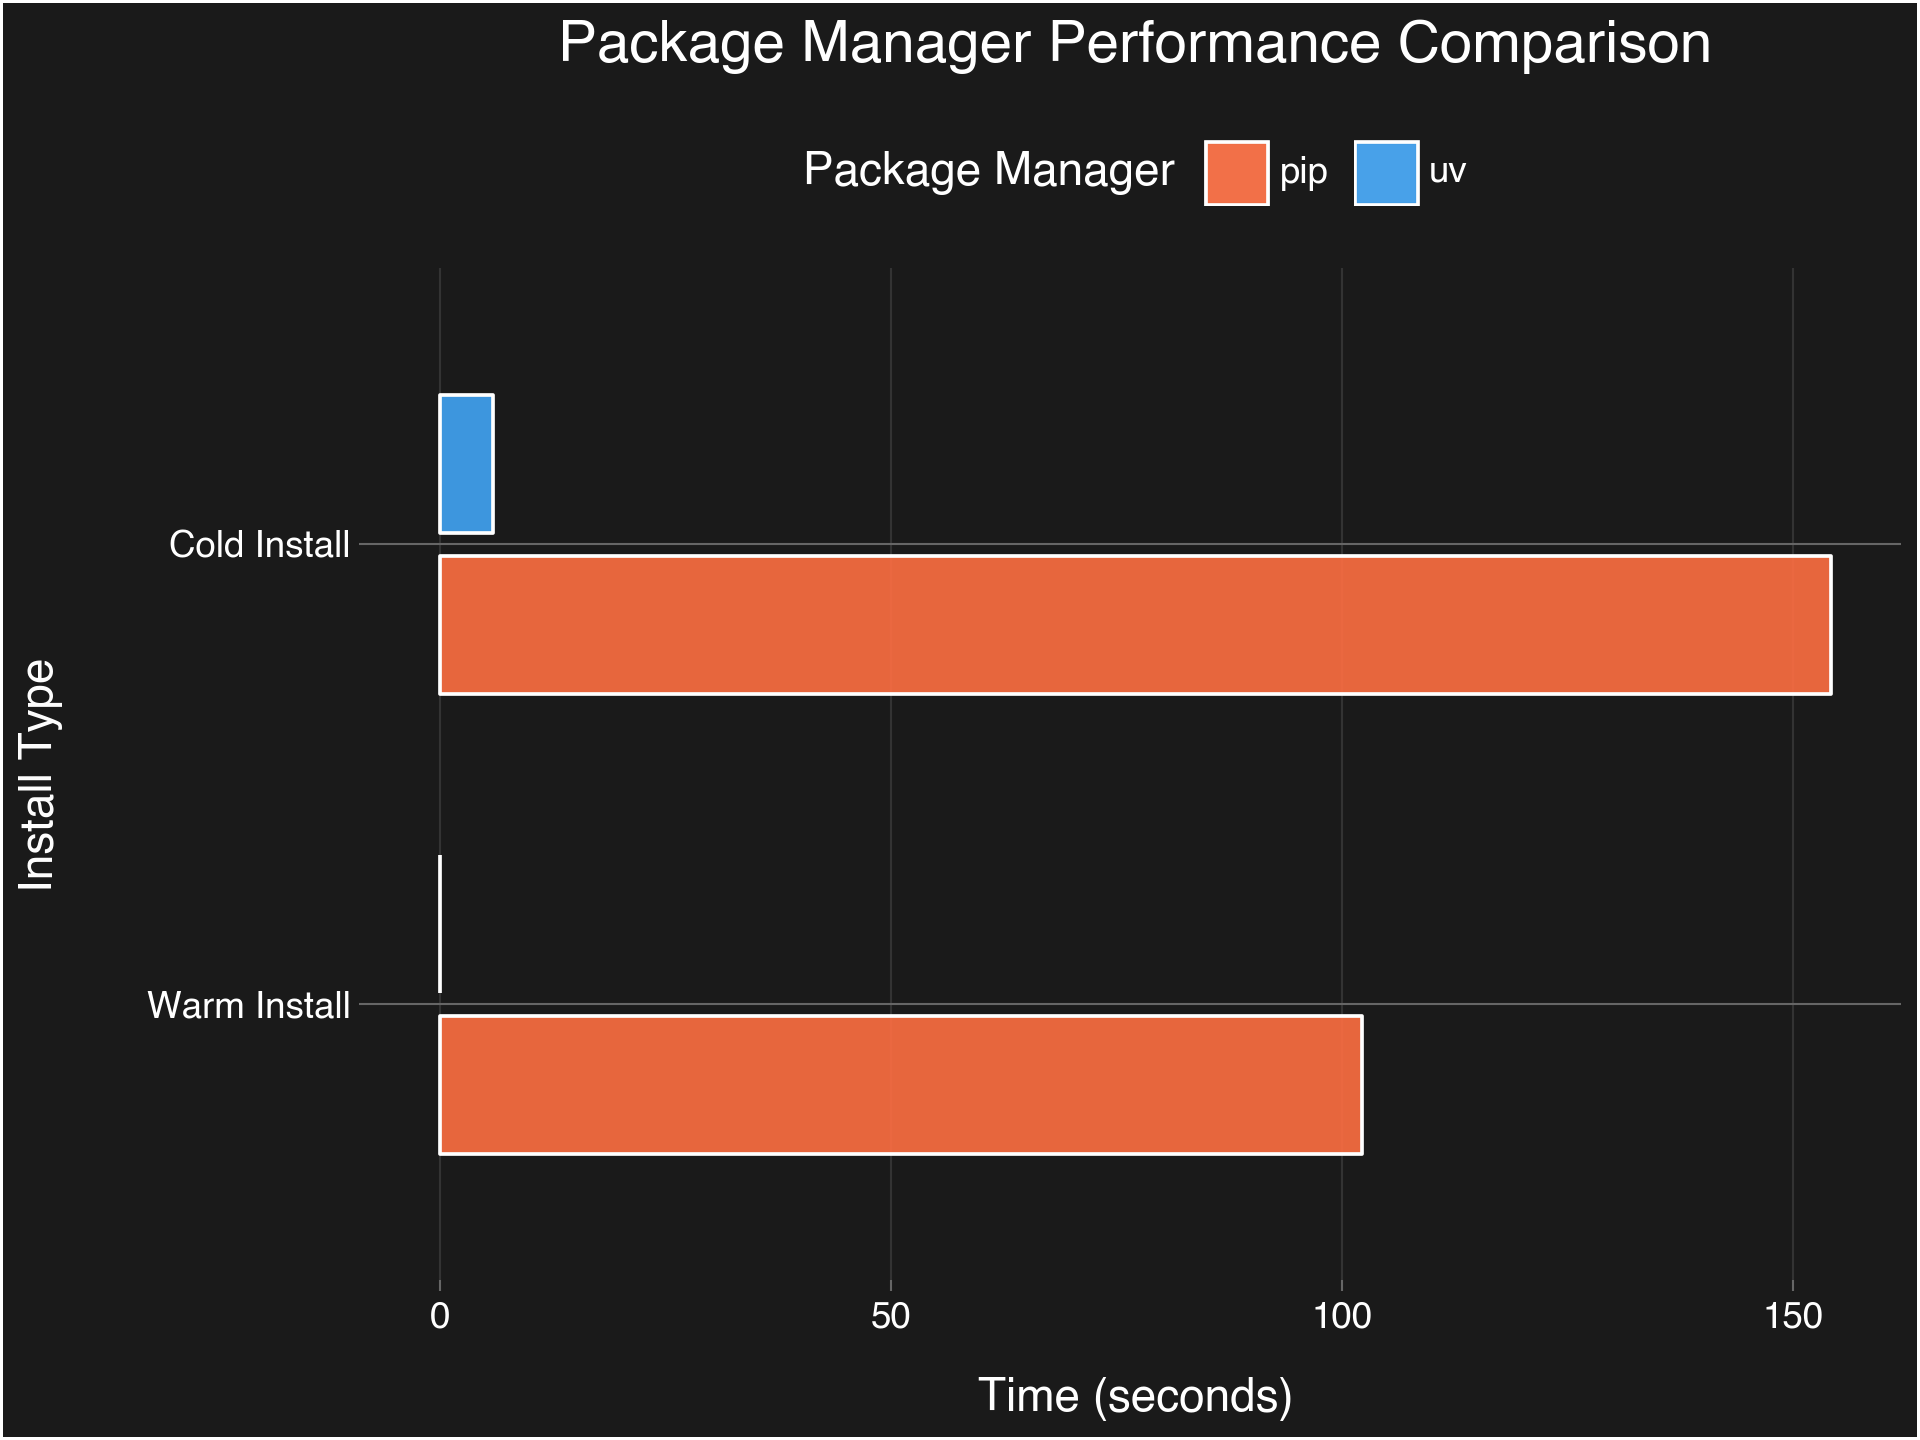
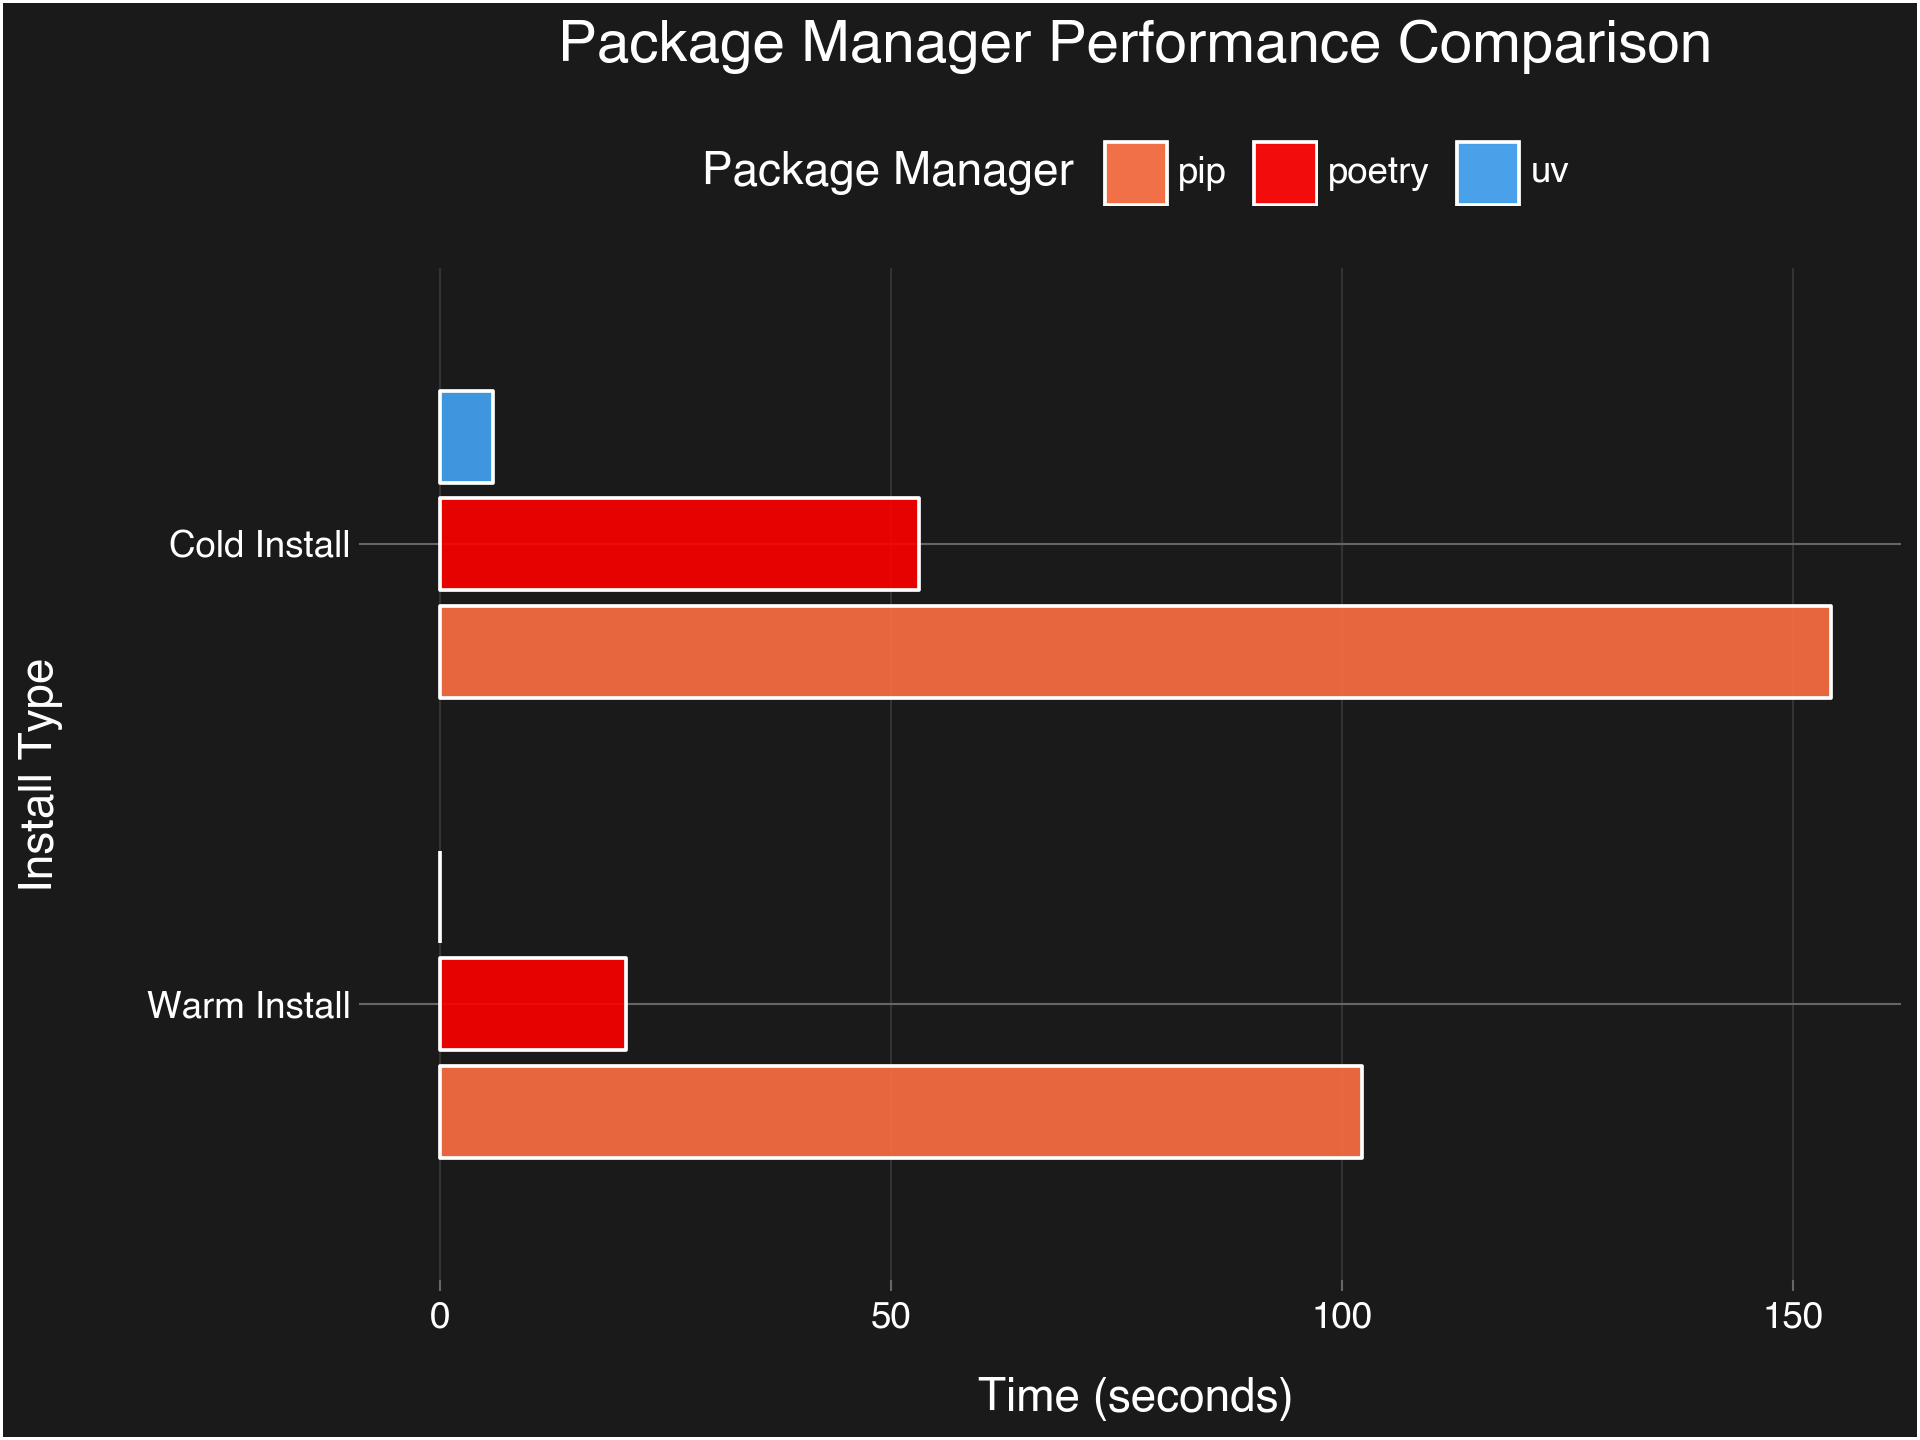
Add poetry to benchmark

diff --git a/content/posts/uv.md b/content/posts/uv.md
@@ -150,9 +150,11 @@ from plotnine import position_dodge
 # Create the dataframe with explicit orientation
 data = [
     ("pip", 154.276, "Cold Install"),
+    ("poetry", 53.169,"Cold Install"),
     ("uv", 5.908, "Cold Install"),
     ("pip", 102.244, "Warm Install"),
-    ("uv", 0.029, "Warm Install")
+    ("poetry", 20.641, "Warm Install"),
+    ("uv", 0.029, "Warm Install"),
 ]
 df = pl.DataFrame(
     data,
@@ -179,7 +181,7 @@ plot = (
         y="Time (seconds)",
         fill="Package Manager"
     )
-    + scale_fill_manual(values={"pip": "#FF6F42", "uv": "#42A5F5"})
+    + scale_fill_manual(values={"pip": "#FF6F42", "uv": "#42A5F5", "poetry": "#FF0000"})
     # Set the order of InstallType - now with Warm Install first
     + scale_x_discrete(
         limits=["Warm Install", "Cold Install"],
